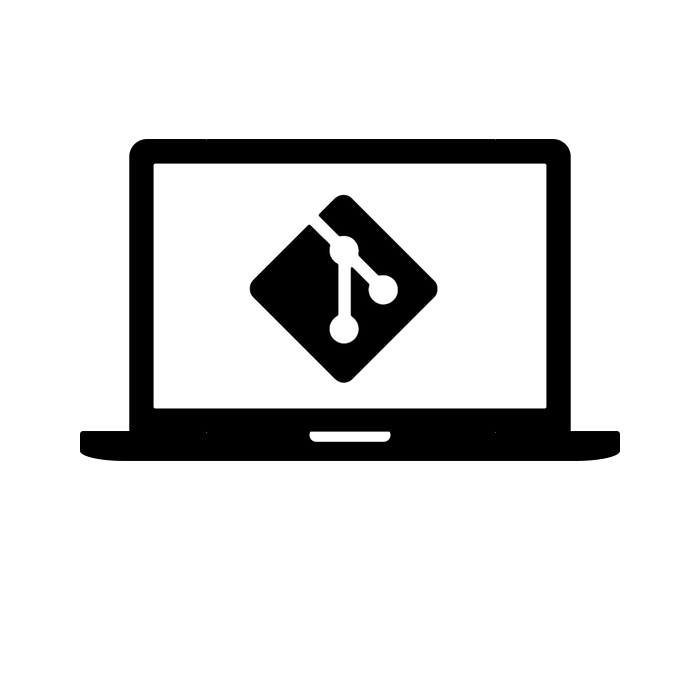
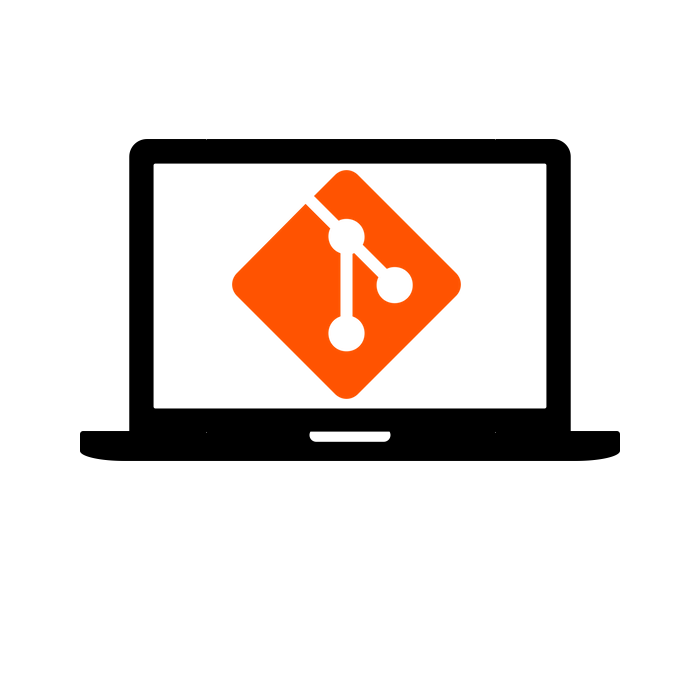
fixing some coloring issues

Changed region(s): [[0.33, 0.24, 0.66, 0.57]]

diff --git a/index.html b/index.html
@@ -25,7 +25,7 @@
         <h3 class="headline__text__subheader header-3">10</h>
         <h1 class="header-1 headline__text__header">Kween <br/> of Code</h1>
         <p class="paragraph">Hi, I’m Ky, I’m a front end web developer. My three favourite things are creative problem-solving, RuPaul’s Drag Race, and the feeling of reading a beautiful sentence. My character is best defined by the fact that I always count my groceries before using the speedy lane and that I have yet to meet a dog that doesn't like me. My laugh is too loud and too regular for me to ever survive in a horror movie. I genuinely and stubbornly refuse to believe that anything is impossible.</p>
-        <p class="paragraph paragraph--uppercase"><a href="#recommendem">Explore More <button class="btn"><i class="fa fa-angle-right"></i></button></a>
+        <a href="#recommendem"><button class="btn btn--explore"><i class="fa fa-angle-right"></i></button></a>
       </div>
     </div>
     <div class="wrapper main-social">
@@ -52,10 +52,10 @@
     </ul>
   </div>
   <!-- 01 - Recommendem - React Project -->
-  <section class="wrapper project" id="recommendem">
+  <section class="wrapper project">
     <h1 class="header-1">Portfolio</h1>
     <div>
-      <h4 class="header-4">01 - React</h4>
+      <h4 class="header-4" id="recommendem">01 - React</h4>
       <h2 class="header-2">Recommendem</h2>
       <h4 class="header-4">Built With:</h4>
       <div class="project__nav">
@@ -90,14 +90,14 @@
       </div>
       <div>
         <h3 class="header-3">Recommendem</h3>
-        <p class="paragraph paragraph--smaller">I come from the world of theatre and have a passion for improving representation and diversity, but understand that many artists don't know where to start looking to find collaborators from diverse experiences. Using React and Firebase I built a database for artists from underrepresented communities to self-identify and provide a resource for artists looking to improve the diversity of their practice.</p>
+        <p class="paragraph paragraph--smaller">I spent a number of years working in theatre where I became passionate about improving representation and diversity. I understand that one of the current obstacles is that many artists don't know where to start looking for a diversity of collaborators. Using React and Firebase I built a database for artists from underrepresented communities to self-identify.</p>
       </div>
     </div>
   </section>
   <!-- 02 - Would You Feel Better - jQuery -->
-  <section class="wrapper project" id="dress">
+  <section class="wrapper project">
     <div>
-      <h4 class="header-4">02 - jQuery</h4>
+      <h4 class="header-4" id="dress">02 - jQuery</h4>
       <h2 class="header-2">Would You Feel Better If I Wore A Dress</h2>
       <h4 class="header-4">Built With:</h4>
       <div class="project__nav">
@@ -131,14 +131,14 @@
       </div>
       <div>
         <h3 class="header-3">Would You Feel Better if I Wore a Dress?</h3>
-        <p class="paragraph paragraph--smaller">At 29 years old, 13 years after I'd come out as queer, I came out as nonbinary. I used jQuery to create an interactive quiz-like project around questions of what a nonbinary body looks like.</p>
+        <p class="paragraph paragraph--smaller">For the past two years a large portion of my writing has been devoted to exploring queerness and my body. At 29 years old, 13 years after I'd come out as queer, I came out as nonbinary and started experimenting with a femme presentation. I used jQuery to create an interactive quiz-like project to help me work through questions around what a nonbinary body looks like.</p>
       </div>
     </div>
   </section>
   <!-- 03 - Wine ON Dine ON -->
-  <section class="wrapper project" id="wine">
+  <section class="wrapper project">
     <div>
-      <h4 class="header-4">03 - React Group Project</h4>
+      <h4 class="header-4" id="wine">03 - React Group Project</h4>
       <h2 class="header-2">Wine ON Dine ON</h2>
       <h4 class="header-4">Built With:</h4>
       <div class="project__nav">
@@ -173,14 +173,14 @@
       </div>
       <div>
         <h3 class="header-3">Wine ON Dine ON</h3>
-        <p class="paragraph paragraph--smaller">I am a big advocate of treating yourself to a bottle of wine with a dinner at home. Created in collaboration with Becky Pollard and Michael Yiu, Wine ON Dine ON pairs a randomly generated VQA wine with a complementary recipe based on the serving suggestion provided by the LCBO API.</p>
+        <p class="paragraph paragraph--smaller">I am a big advocate of treating yourself to a bottle of wine with a dinner at home. Created in collaboration with Becky Pollard and Michael Yiu, Wine ON Dine ON pairs a randomly generated VQA wine with a complementary recipe from the Yummly API based on the serving suggestion provided by the LCBO API analyzed for context by the Dandelion API.</p>
       </div>
     </div>
   </section>
   <!-- 04 - MaxShop -->
-  <section class="wrapper project" id="maxshop">
+  <section class="wrapper project">
     <div>
-      <h4 class="header-4">04 - PSD Convesion</h4>
+      <h4 class="header-4" id="maxshop">04 - PSD Convesion</h4>
       <h2 class="header-2">MaxShop</h2>
       <h4 class="header-4">Built With:</h4>
       <div class="project__nav">
@@ -213,12 +213,12 @@
       </div>
       <div>
         <h3 class="header-3">MaxShop</h3>
-        <p class="paragraph paragraph--smaller">I take no credit for the design. Maxshop is a responsive PSD conversion.</p>
+        <p class="paragraph paragraph--smaller">I take no credit for the design. Maxshop is a responsive single-page website developped from a PSD.</p>
       </div>
     </div>
   </section>
-  <section class="skills" id="skills">
-    <ul class="list skills__list">
+  <section class="skills">
+    <ul class="list skills__list" id="skills">
       <li class="skills__item list__item"><img src="./images/html5.png" alt=""><p class="paragraph skills__label">HTML</p></li>
       <li class="skills__item list__item"><img src="./images/css3.png" alt=""><p class="paragraph skills__label">CSS</p></li>
       <li class="skills__item list__item"><img src="./images/sass.png" alt=""> <p class="paragraph skills__label">Sass</p></li>
@@ -233,9 +233,9 @@
     </ul>
   </section>
   <footer>
-    <div class="wrapper" id="contact">
+    <div class="wrapper">
       <div class="contact">
-        <form method="POST" action="http://www.focuspocus.io/magic/ky@kweenofcode.com" class="contact__form">
+        <form method="POST" id="contact" action="http://www.focuspocus.io/magic/ky@kweenofcode.com" class="contact__form">
           <h2 class="header-2 contact__headline">Get in Touch</h2>
           <div><a class="contact__email" href="mailto:ky@kweenofcode.com"><i class="fa fa-envelope"></i>
             <p class="paragraph paragraph--large contact__email__address">ky@kweenofcode.com</p></a>
@@ -265,7 +265,7 @@
       </div>
     </div>
   </footer>
-  
+   <script src=https://ajax.googleapis.com/ajax/libs/jquery/3.1.1/jquery.min.js></script>
 	<script src="./public/scripts/main.js"></script>
   
 </body>

diff --git a/dev/styles/style.scss b/dev/styles/style.scss
@@ -9,6 +9,7 @@ font-family: 'Roboto Condensed', sans-serif; */
 
 html{
   font-size: 62.5%;
+  scroll-behavior: smooth;
 }
 .wrapper {
   max-width: 2556px;
@@ -84,6 +85,9 @@ a {
   }
   @media (max-width: $fourth-breakpoint) {
     display: none;
+  }
+  &--explore {
+    height: 40px;
   }
 }
 .project__images img {

diff --git a/dev/styles/_header.scss b/dev/styles/_header.scss
@@ -54,7 +54,6 @@
     }
     @media (max-width: $fifth-breakpoint) {
       left: 0;
-      margin: 0 auto;
       object-position: 0 -40px;
     }
     @media (max-width: $sixth-breakpoint) {

diff --git a/dev/styles/_menu.scss b/dev/styles/_menu.scss
@@ -24,9 +24,6 @@
     position: fixed;
     top: 0;
     z-index: 999;
-    &:hover {
-      color: $red;
-    }
     @media (max-width: $second-breakpoint) {
       right: 135px;
     }

diff --git a/dev/styles/_typography.scss b/dev/styles/_typography.scss
@@ -174,6 +174,9 @@
 		font-size: 3rem;
 	}
 }
+.fa-bars {
+	color: $main-black;
+}
 .fa-bars, .menu__close-btn {
 	font-size: 8rem;
 	@media (max-width: $first-breakpoint) {
